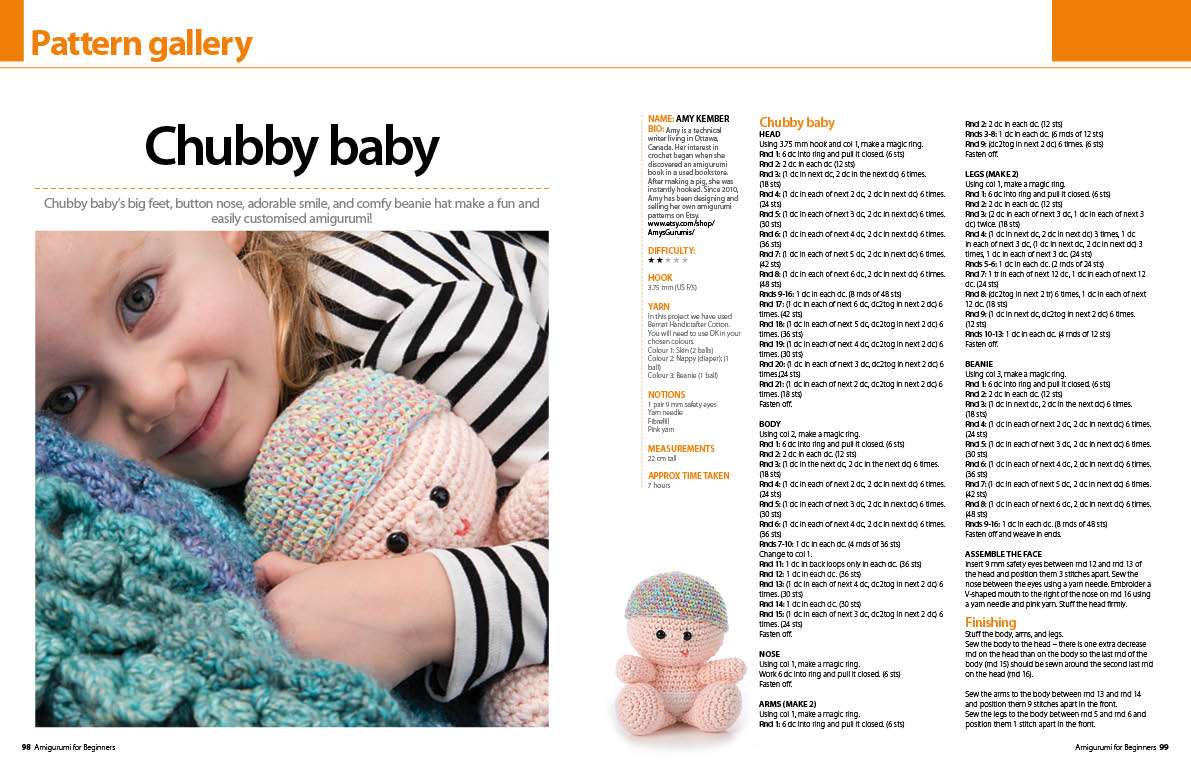
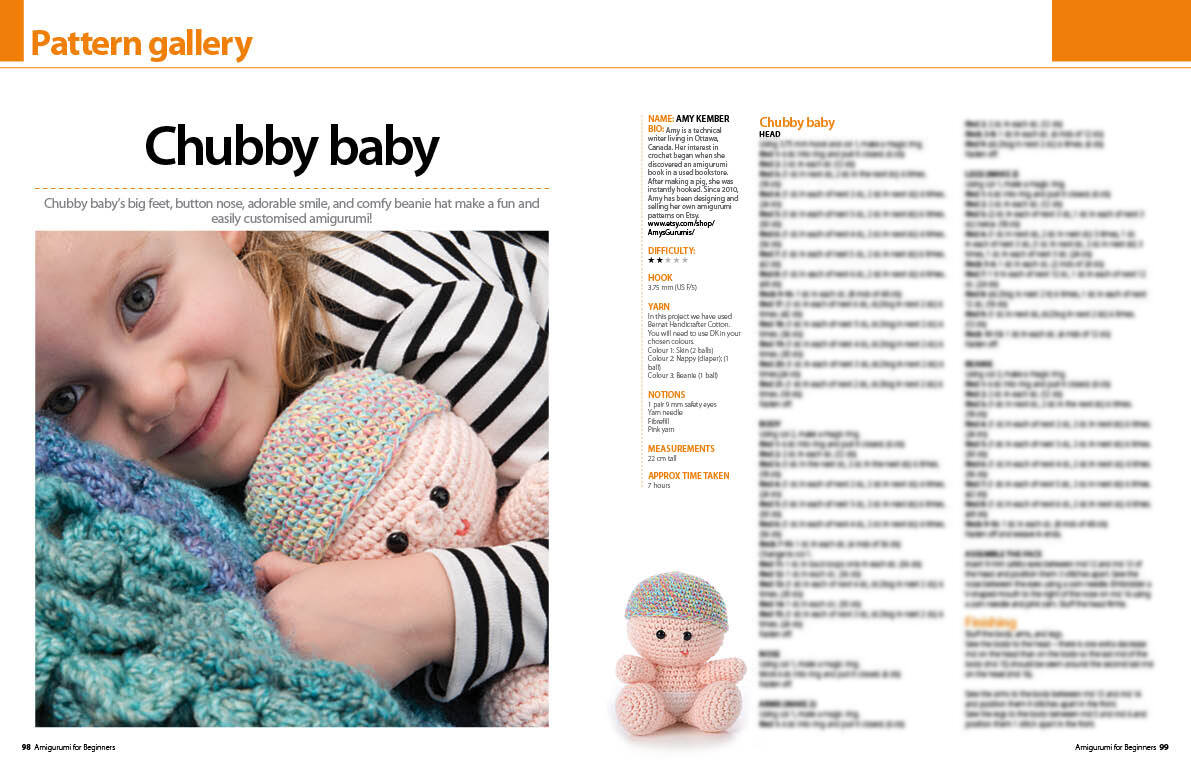
Blur images

Changed region(s): [[0.6213, 0.1538, 0.9631, 0.9538]]

diff --git a/README.md b/README.md
@@ -104,3 +104,24 @@ mkmf.rb can't find header files for ruby at
 ```
 
 Found the same thing [here](https://github.com/castwide/vscode-solargraph/issues/78)
+
+## Blurring the photos 2020/06/05
+
+```
+brew install imagemagick
+cd assets
+convert ak_chubbybaby1.jpg \( -clone 0 -fill white -colorize 100 -fill black -draw "polygon 755,138 755,735 1158,735 1158,114 955,114 955,138" -alpha off -blur 0x2 -write mpr:mask +delete \) -mask mpr:mask -blur 0x2 +mask ak_chubbybaby1_blur.jpg
+```
+
+### Coordinates
+
+- chubbybaby1: "755,138 755,735 1158,735 1158,114 955,114 955,138"
+- horse1: "755,138 755,730 920,730 975,465 1160,465 1165,112 950,112 950,138"
+- jumbodoll: "755,253 755,725 1160,725 1160,230 950,230 950,253"
+- lion: "755,253 755,725 1160,725 1160,230 950,230 950,253"
+- littlebunny: "755,138 755,735 1158,735 1158,114 955,114 955,138"
+- littledoll1: "755,249 755,730 955,730 1014,465 1160,465 1160,225 957,225 957,249"
+- mouse: "755,253 755,725 957,725 957,433 1160,433 1160,226 958,226 958,253"
+- prairiebunny: "755,253 755,725 948,725 948,380 1160,380 1160,226 958,226 958,253"
+- teddy: "755,138 755,562 991,562 991,547 1160,547 1160,111 956,111 956,138"
+- turtle: "755,255 755,470 798,470 842,459 960,469 1013,472 1056,459 1160,469 1160,230 958,230 958,255"
